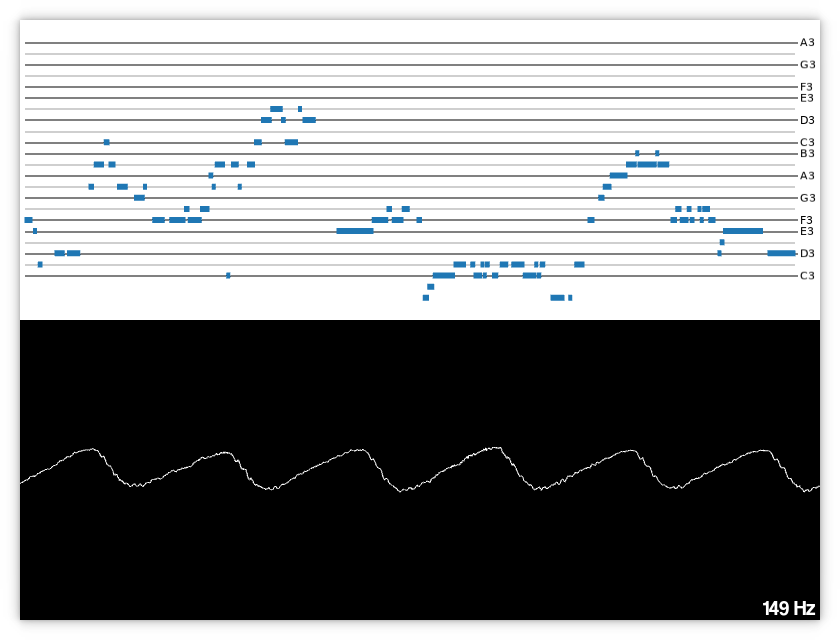
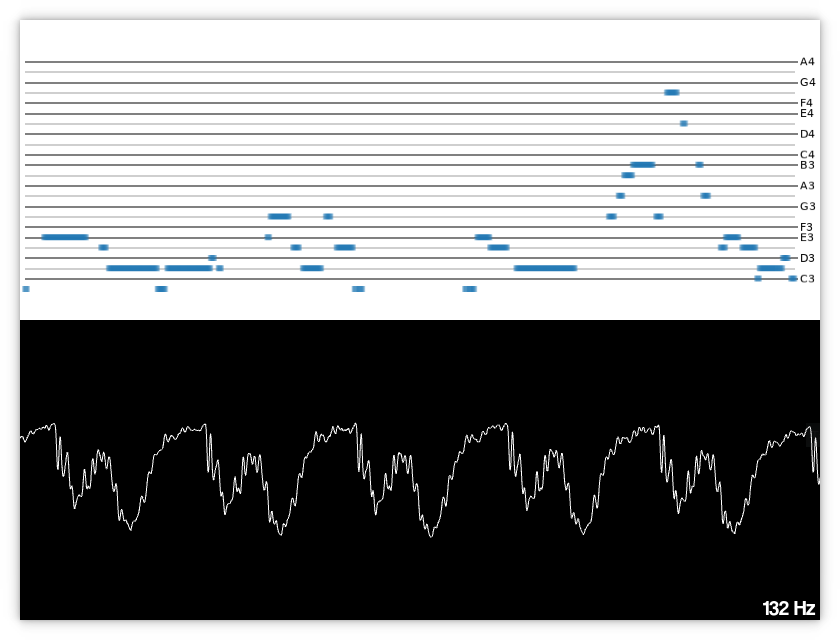
lun 29 mar 2021, 18:54:51, CEST

diff --git a/midterm-1/pitch-detector.py b/midterm-1/pitch-detector.py
@@ -43,7 +43,8 @@ class MicStream:
             input = True,
             frames_per_buffer = self.chunk)
     def read(self):
-        return bytes_to_wav(self.stream.read(self.chunk))
+        cnt = max(self.stream.get_read_available(), self.chunk)
+        return bytes_to_wav(self.stream.read(cnt))
     def stop(self):
         self.stream.stop_stream()
         self.stream.close()
@@ -85,7 +86,7 @@ class MusicalStaff:
     def draw(self, x1, y1, x2, y2):
         x3 = x2 - 25
         pyglet.shapes.Rectangle(x = x1, y = y1, width = x2 - x1, height = y2 - y1, color = (255, 255, 255)).draw()
-        ymap = lambda y: y1 + (y2 - y1) / 27 * (y + 4)
+        ymap = lambda y: y1 + (y2 - y1) / 29 * (y + 4)
         ynotes = [0, 2, 4, 5, 7, 9, 11, 12, 14, 16, 17, 19, 21]
         j = self.yshift + 5
         for i, y in enumerate(ynotes):
@@ -102,33 +103,39 @@ class MusicalStaff:
         
         x = np.array([i for i, v in enumerate(self.queue) if v is not None], dtype = int)
         y = np.array([v for v in self.queue if v is not None], dtype = float)
+        if y.size < 6:
+            return
+        
         y = np.round(np.log2(y / 440) * 12) - 3
         take = np.zeros(x.size, dtype = bool)
-        take[1 : -1] = (y[: -2] == y[1 : -1]) & (y[1 : -1] == y[2 :])
+        take[2 : -2] = (y[3 : -1] == y[4 :])
+        for i in range(3):
+            take[2 : -2] &= (y[i : -4 + i] == y[i + 1 : -3 + i])
+        take = np.convolve(take, np.ones((5, ), dtype = bool), 'same')
         x = x[take]
         y = y[take]
         if y.size < 2:
             return
         ylast = y[len(self.queue) - x <= self.max_samples * .06]
-        if ylast.size >= .03 * self.max_samples:
-            self.yshift = min(range(-3, 4), key = lambda i: sum(np.maximum(0, abs(ylast - 11 - 12 * i) - 11)) + abs(i - self.yshift))
+        if ylast.size >= .02 * self.max_samples:
+            self.yshift = min(range(-3, 4), key = lambda i: sum(np.maximum(0, abs(ylast - 10.5 - 12 * i) - 10.5)) + abs(i - self.yshift))
         y = y - 12 * self.yshift
-        take = (-2 <= y) & (y <= 21)
+        take = (-2 <= y) & (y <= 23)
         x = x[take]
         y = y[take]
         x = x1 + 5 + (x + self.max_samples - len(self.queue)) / self.max_samples * (x3 - x1 - 5)
         y = ymap(y)
         coords = np.empty(8 * x.size, dtype = float)
-        coords[: : 8] = x - 2
+        coords[: : 8] = x - 3
         coords[1 : : 8] = y - 3
-        coords[2: : 8] = x - 2
+        coords[2: : 8] = x - 3
         coords[3 : : 8] = y + 3
-        coords[4: : 8] = x + 2
+        coords[4: : 8] = x + 3
         coords[5 : : 8] = y + 3
-        coords[6: : 8] = x + 2
+        coords[6: : 8] = x + 3
         coords[7 : : 8] = y - 3
-        cols = np.tile(np.array([31, 119, 180], dtype = np.uint8), coords.size // 2)
-        pyglet.graphics.draw(coords.size // 2, pyglet.gl.GL_QUADS, ('v2f', coords), ('c3B', cols))
+        cols = np.tile(np.array([31, 119, 180, 64], dtype = np.uint8), coords.size // 2)
+        pyglet.graphics.draw(coords.size // 2, pyglet.gl.GL_QUADS, ('v2f', coords), ('c4B', cols))
 
 
 window_config = pyglet.gl.Config(sample_buffers = 1, samples = 4)
@@ -137,7 +144,7 @@ window = pyglet.window.Window(width = 800, height = 600, config = window_config)
 mic = MicStream(fps = 60)
 audio = AudioManager(stream = mic, time_window = .04)
 audio_track = np.array([], dtype = float)
-staff = MusicalStaff(max_samples = 1000)
+staff = MusicalStaff(max_samples = 1500)
 
 def update_func(dt):
     global audio_track
@@ -147,6 +154,8 @@ def update_func(dt):
     staff.add_sample(pitch)
 
 pyglet.font.add_file('font.ttf')
+pyglet.gl.glEnable(pyglet.gl.GL_BLEND)
+pyglet.gl.glBlendFunc(pyglet.gl.GL_SRC_ALPHA, pyglet.gl.GL_ONE_MINUS_SRC_ALPHA)
 
 def draw_audio_track(track, x1, y1, x2, y2, l):
     x = np.linspace(x1, x2, l)
